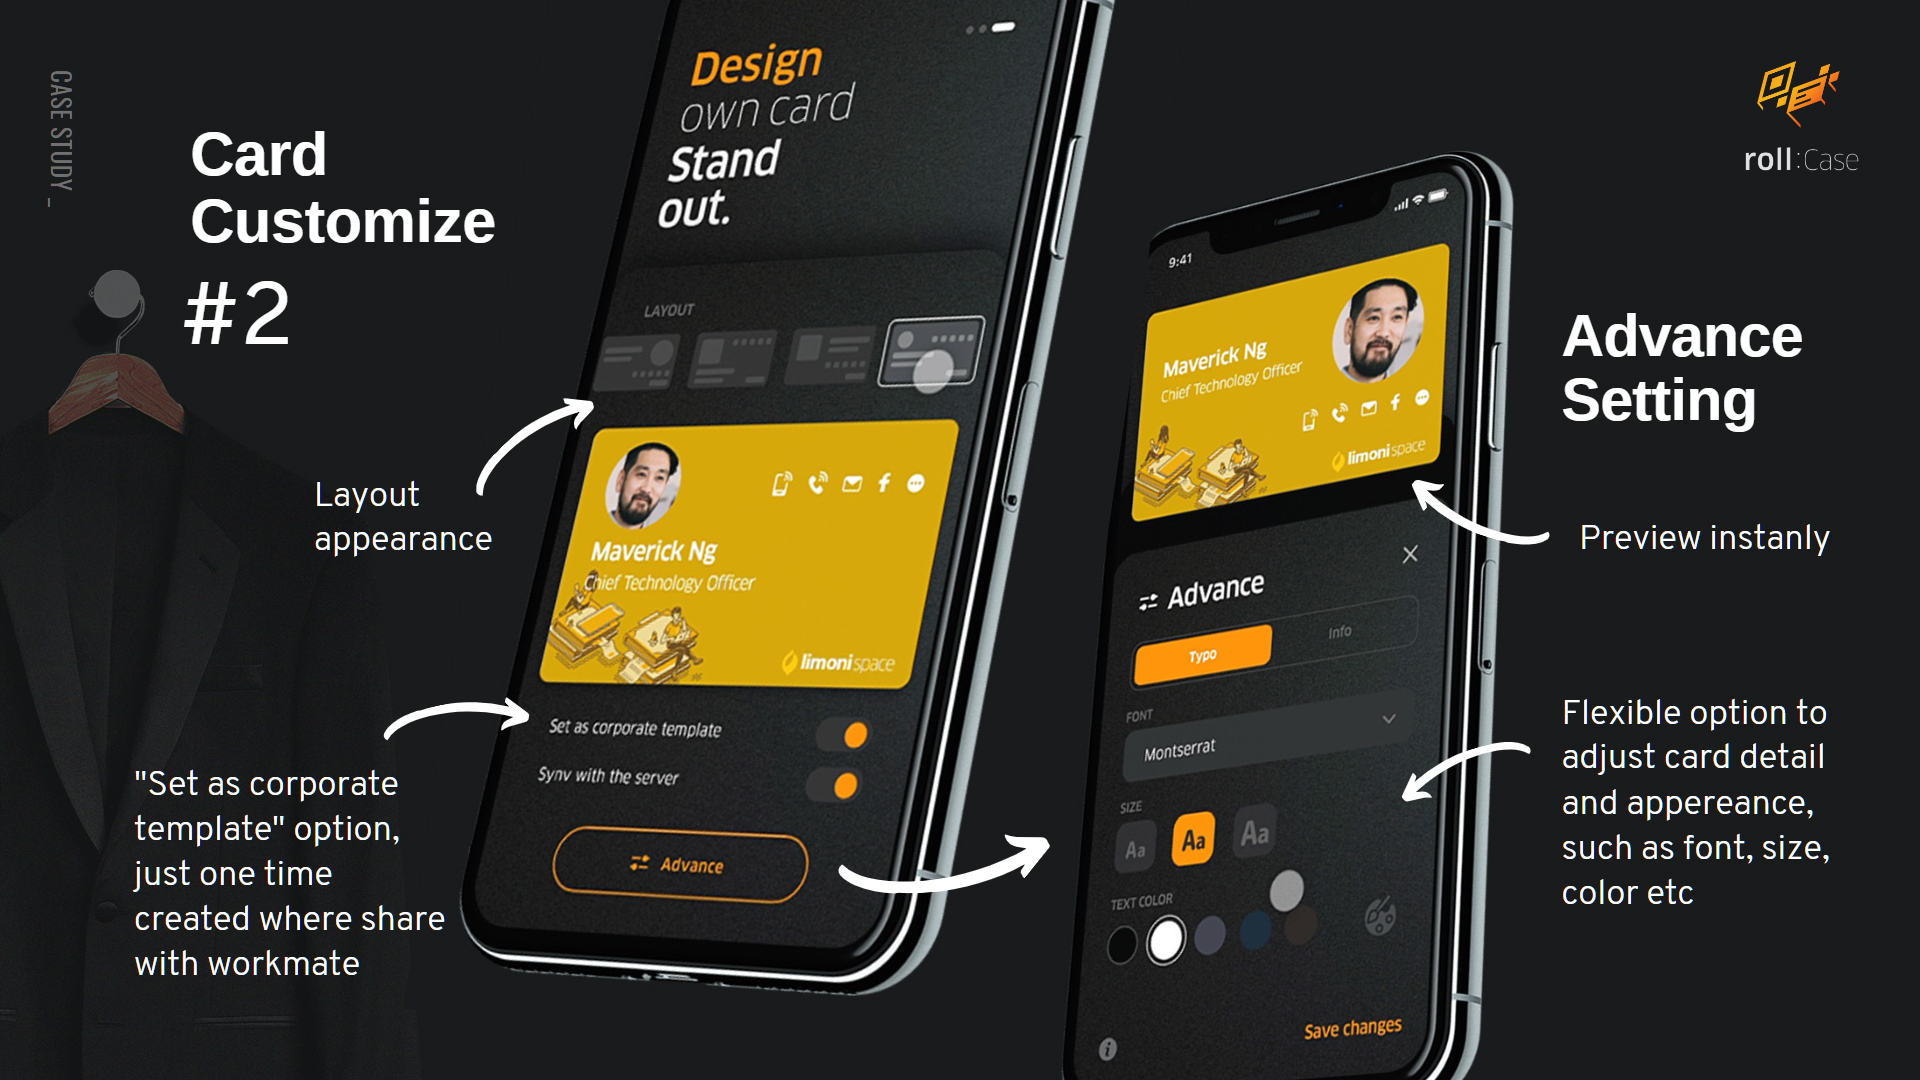
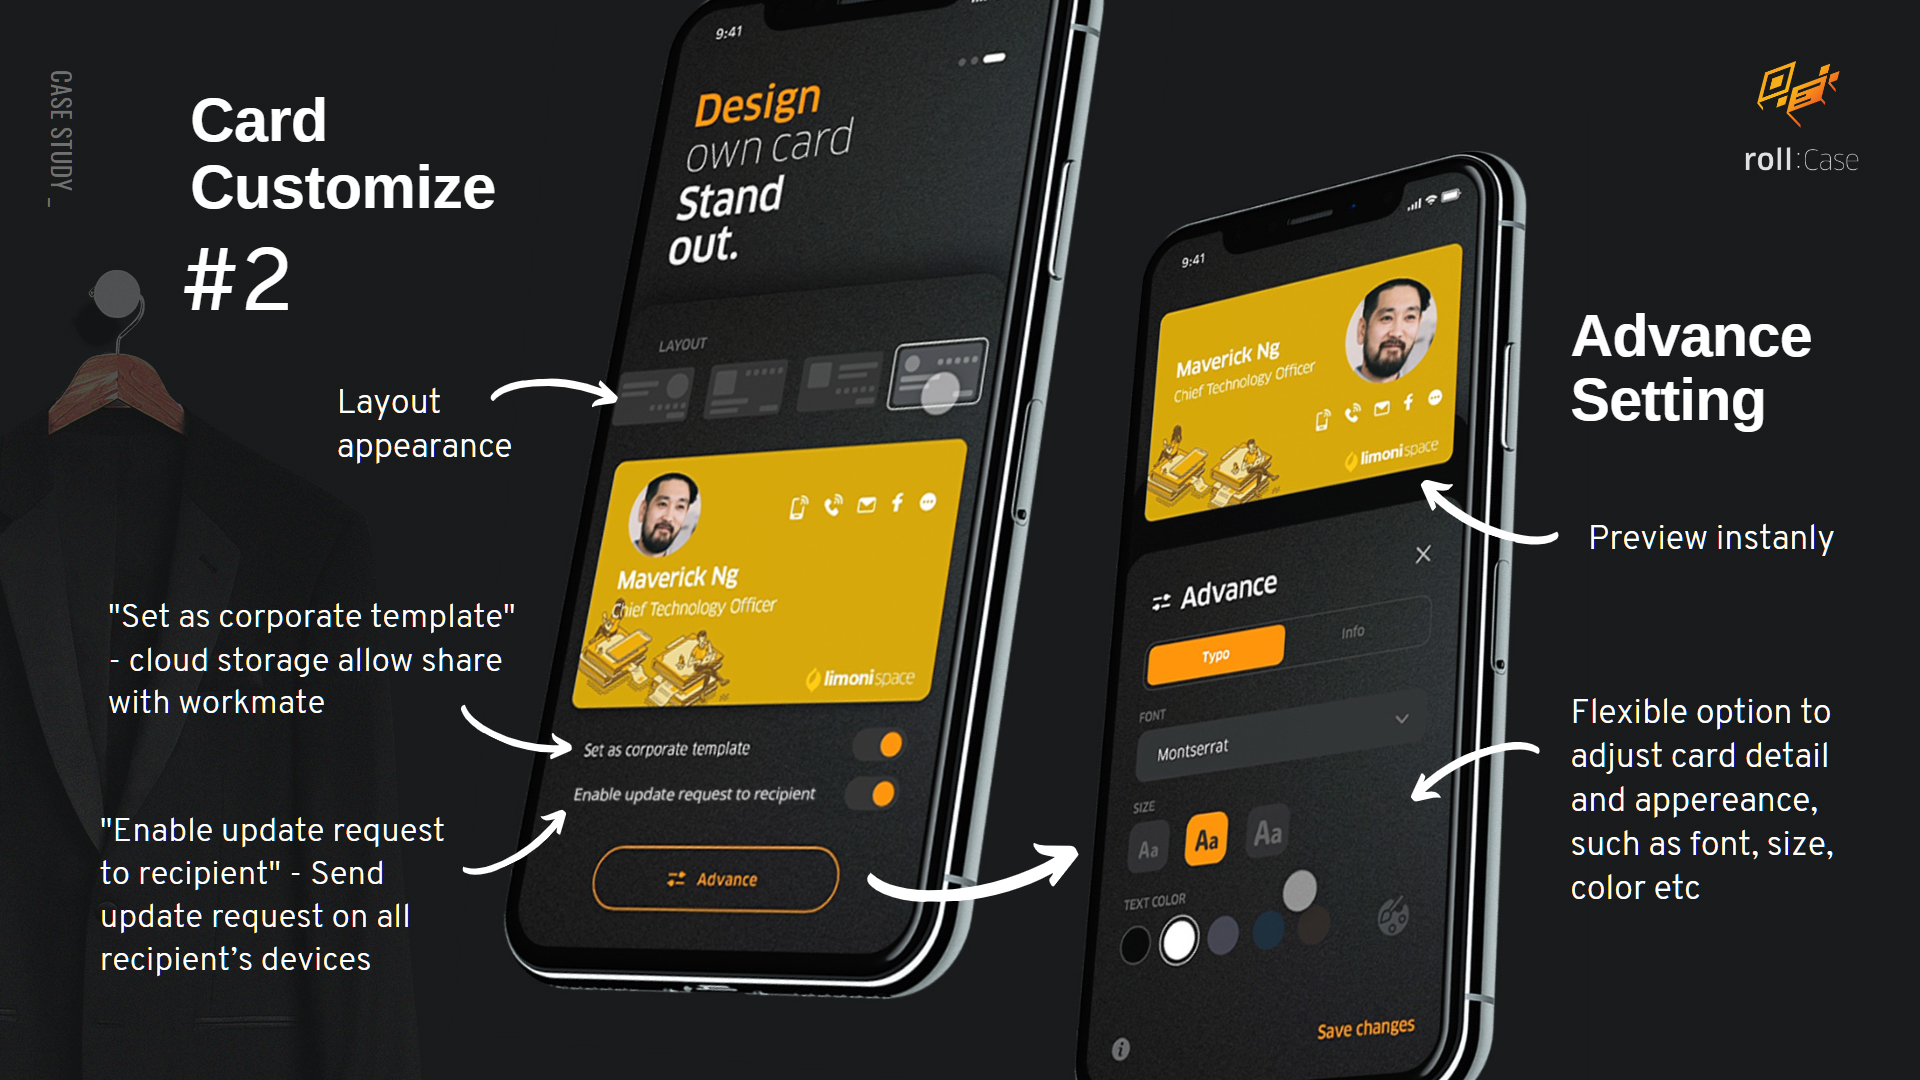
1810_01

diff --git a/project/rollcase.html b/project/rollcase.html
@@ -675,7 +675,9 @@
       <p class="observable body h6 spacing-title">Card Customize</p>
       <p class="observable body spacing-sub-title">Create card element and layout themselves, such as logo, background, and color etc by editing tools bundled. <span class="material-icons m-icons-position" style="font-size:12pt;">open_in_new</span> <a class="image-popup-fit-width underlined" style="opacity:0.8" title="Click on image to enlarge/reduce it"  href="../images/projects/rollcase/custom_detail_01.jpg">Detail</a>&nbsp; Available for user adjust the card detail what info displaying on, such as layout, font style etc. Within as the user adjust their digital card, the outcome will be change in preview instanly. <span class="material-icons m-icons-position" style="font-size:12pt;">open_in_new</span> <a class="image-popup-fit-width underlined" style="opacity:0.8" title="Click on image to enlarge/reduce it"  href="../images/projects/rollcase/custom_detail_02.jpg">Detail</a></p>
 
-      <p class="observable body spacing-medium">Enable "Set as corporate template" that just one time created which cloud base storage, where share with workmate or teams. Allow user reuse card template design to standardize with thier brand guideline to avoid duplicating efforts.</p>
+      <p class="observable body spacing-sub-title">Enable "Set as corporate template" that just one time created which cloud base storage, where share with workmate or teams. Allow user reuse card template design to standardize with thier brand guideline to avoid duplicating efforts.</p>
+
+      <p class="observable body spacing-medium">"Enable update request to recipient" will sending update request on all recipient’s devices if user adjust card information</p>
     </div>
 
 

diff --git a/rollcase_case_study.html b/rollcase_case_study.html
@@ -486,7 +486,6 @@ body, .body {
 
         <p class=" body spacing-medium">跟住 下一頁 Slide.....</p>
 
-
     </div>
 
 
